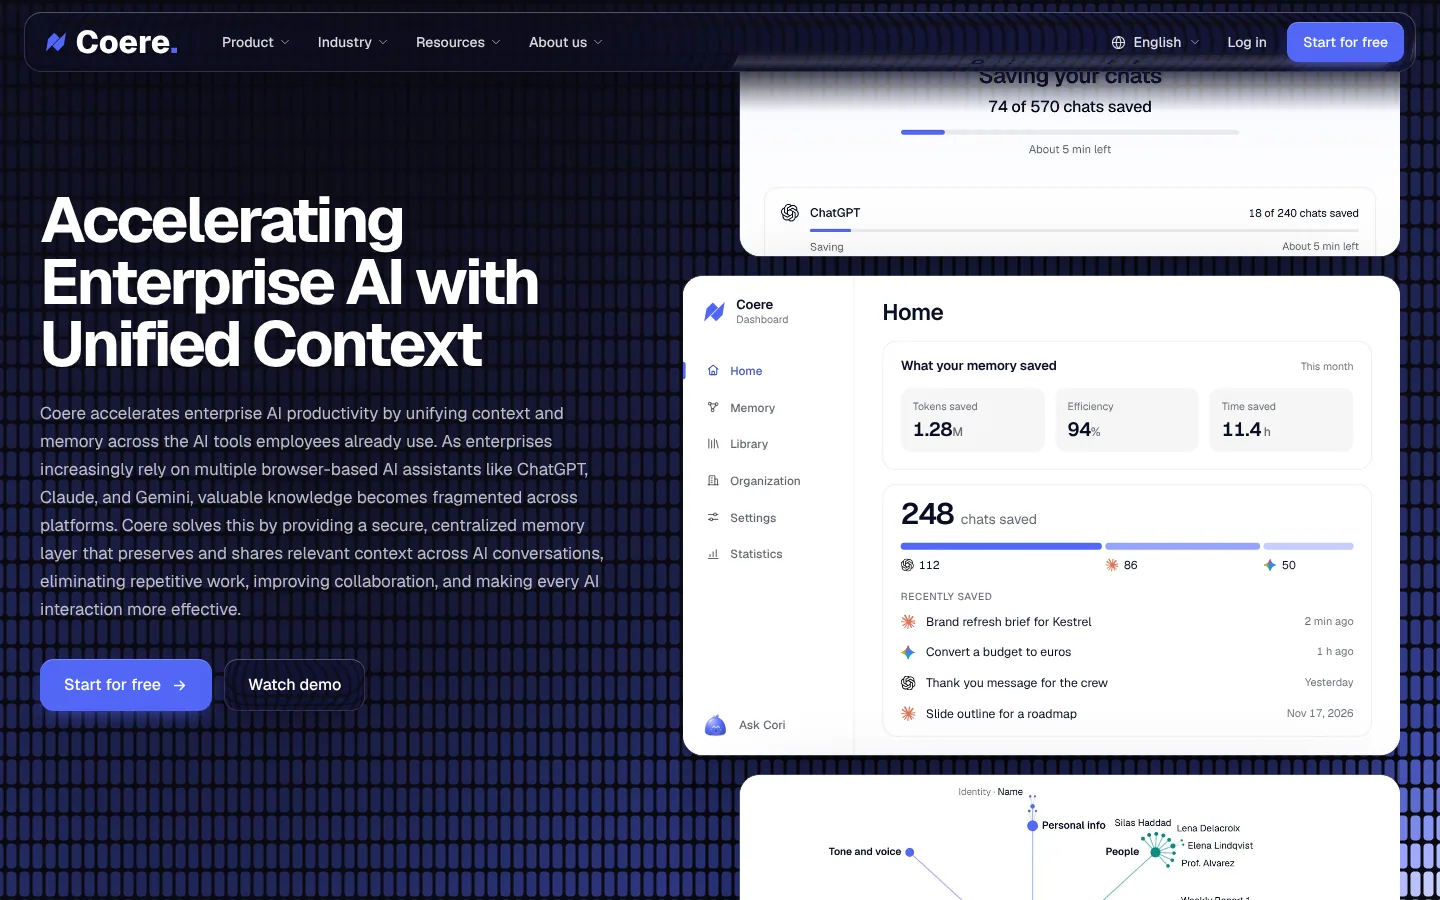
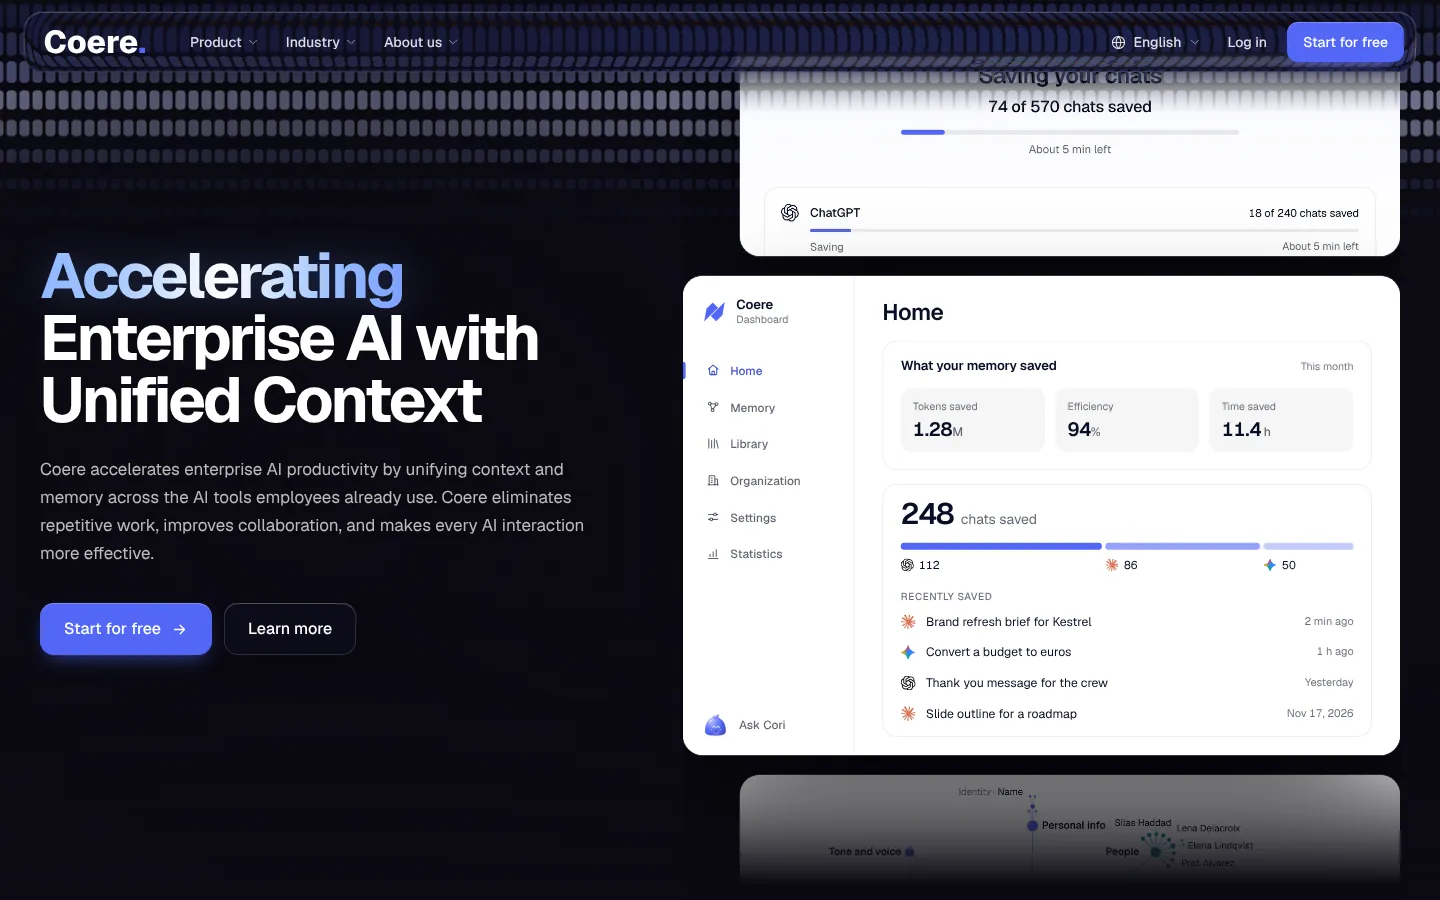
Turn Watch demo into Learn more, down to the products
The owner wants the hero's second button to read Learn more and take people to the three products side by side further down the home page. It keeps the navbar glass look; the film dialog it opened is gone, as the film has its own page at /demo.

Claude-Session: https://claude.ai/code/session_01Ur6uqNCXa3ecJ23BnM9D9o

diff --git a/src/site/home/hero/learn-more.tsx b/src/site/home/hero/learn-more.tsx
@@ -1,0 +1,37 @@
+"use client";
+
+import GlassSurface from "@/site/bits/GlassSurface";
+
+/**
+ * Learn more: goes to the three products side by side further down the
+ * home page. It wears the navbar's own glass, tinted as it is over a dark
+ * hero, at the size and corners of Start for free.
+ */
+export function LearnMore() {
+  return (
+    <a
+      href="#products"
+      className="group relative isolate inline-flex h-[52px] items-center justify-center rounded-[14px] px-6 text-[16px] font-medium whitespace-nowrap text-white focus-visible:outline-2 focus-visible:outline-offset-2 focus-visible:outline-white"
+    >
+      <span aria-hidden="true" className="pointer-events-none absolute inset-0 -z-10">
+        <GlassSurface
+          width="100%"
+          height="100%"
+          borderRadius={14}
+          backgroundOpacity={0.62}
+          saturation={1.5}
+          brightness={52}
+          opacity={0.9}
+          blur={10}
+          displace={0.5}
+          distortionScale={-80}
+          redOffset={0}
+          greenOffset={2}
+          blueOffset={4}
+          className="bg-[rgba(14,14,28,0.5)]! shadow-[inset_0_0_0_1px_rgba(255,255,255,0.14),inset_0_1px_0_rgba(255,255,255,0.18),0_12px_32px_-14px_rgba(0,0,0,0.6)]! transition-[background-color] duration-300 group-hover:bg-[rgba(30,30,52,0.55)]!"
+        />
+      </span>
+      Learn more
+    </a>
+  );
+}

diff --git a/src/site/home/hero.tsx b/src/site/home/hero.tsx
@@ -6,7 +6,7 @@ import { UNDER_NAV } from "@/site/nav/nav-space";
 import { Container } from "@/site/ui/container";
 import { ArrowRightIcon } from "@/site/ui/icons/interface-icons";
 import { SoftLink } from "@/site/ui/soft-button";
-import { DemoDialog } from "./hero/demo-dialog";
+import { LearnMore } from "./hero/learn-more";
 import { HERO_INK, HeroBackdrop } from "./hero/hero-backdrop";
 import { HeroStack } from "./hero/hero-stack";
 
@@ -53,7 +53,7 @@ export function Hero() {
               {startLabel}
               <ArrowRightIcon size={17} strokeWidth={2} className="transition-transform group-hover:translate-x-0.5" />
             </SoftLink>
-            <DemoDialog />
+            <LearnMore />
           </Rise>
         </div>
         <HeroStack />

diff --git a/README.md b/README.md
@@ -35,7 +35,7 @@ pictures: [the site](docs/screenshots/site/README.md),
 ### The site
 
 <p align="center">
-  <img src="docs/screenshots/site/home-hero.webp" width="100%" alt="The dark home hero under the dark glass navbar: Accelerating Enterprise AI with Unified Context, the paragraph, Start for free and Watch demo on the left over blue MicroSlats, and on the right three tall tiles: Coere saving chats cut off at the top, the dashboard with tokens saved, efficiency, time saved and recent chats, and the memory graph cut off at the foot" />
+  <img src="docs/screenshots/site/home-hero.webp" width="100%" alt="The dark home hero under the dark glass navbar: Accelerating Enterprise AI with Unified Context, the paragraph, Start for free and Learn more on the left over blue MicroSlats, and on the right three tall tiles: Coere saving chats cut off at the top, the dashboard with tokens saved, efficiency, time saved and recent chats, and the memory graph cut off at the foot" />
   <br />
   <sub>The home page: what Coere does, beside Coere saving chats, the dashboard and the memory graph. The page stays dark to its footer. <a href="docs/screenshots/site/home.webp">The whole page</a>.</sub>
 </p>

diff --git a/docs/screenshots/site/README.md b/docs/screenshots/site/README.md
@@ -8,7 +8,7 @@ Maya Collins, made up for these pictures.
 ## Home
 
 <p align="center">
-  <img src="home-hero.webp" width="100%" alt="The dark home hero under the dark glass navbar: Accelerating Enterprise AI with Unified Context, the paragraph, Start for free and Watch demo on the left over blue MicroSlats, and three tall tiles on the right: Coere saving chats cut off at the top, the dashboard with its rail, tokens saved, efficiency, time saved and recent chats, and the memory graph cut off at the foot" />
+  <img src="home-hero.webp" width="100%" alt="The dark home hero under the dark glass navbar: Accelerating Enterprise AI with Unified Context, the paragraph, Start for free and Learn more on the left over blue MicroSlats, and three tall tiles on the right: Coere saving chats cut off at the top, the dashboard with its rail, tokens saved, efficiency, time saved and recent chats, and the memory graph cut off at the foot" />
   <br />
   <sub>The first screen: what Coere does and the way in, beside Coere saving chats, the dashboard and the memory graph, running from the top of the hero to its foot.</sub>
 </p>
